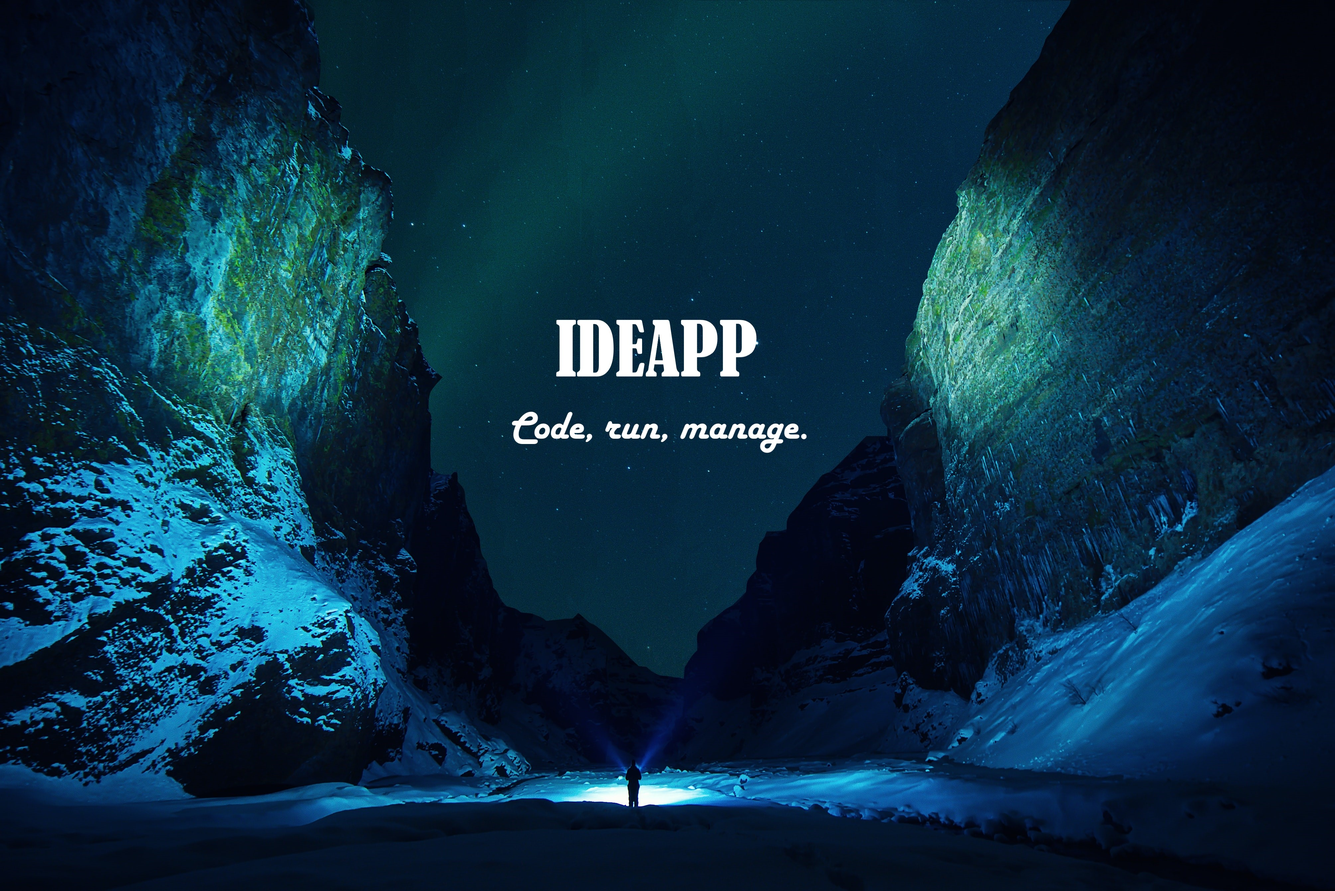
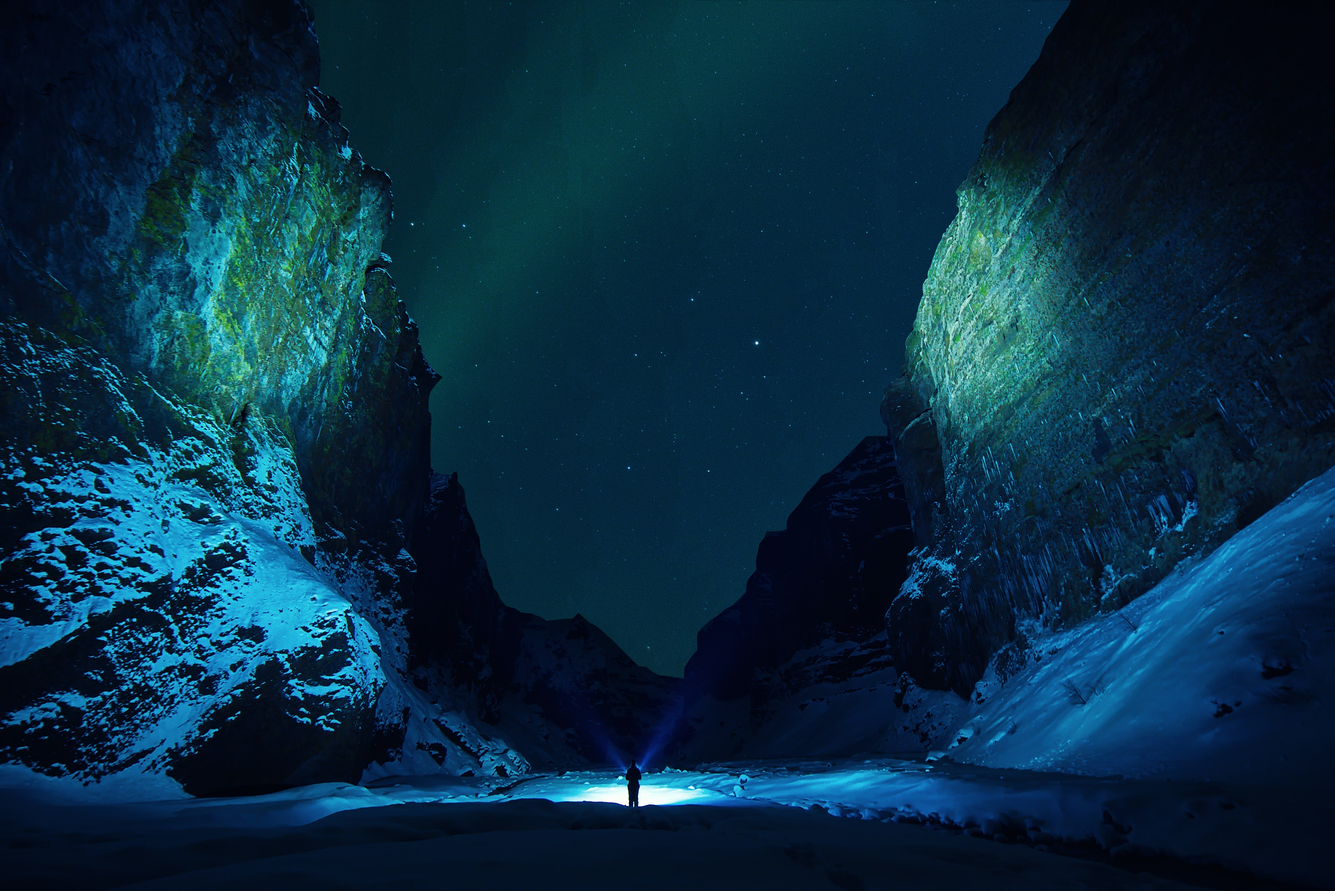
Added landing page image

Changed region(s): [[0.4045, 0.3403, 0.5912, 0.4331], [0.3734, 0.464, 0.6224, 0.5259]]

diff --git a/public/stylesheets/home.css b/public/stylesheets/home.css
@@ -1,4 +1,4 @@
 body{
-    background-image: url('/images/home-background.jpg');
+    background-image: url('/images/landing_page.jpg');
     background-size: 100% 100%;
 }
